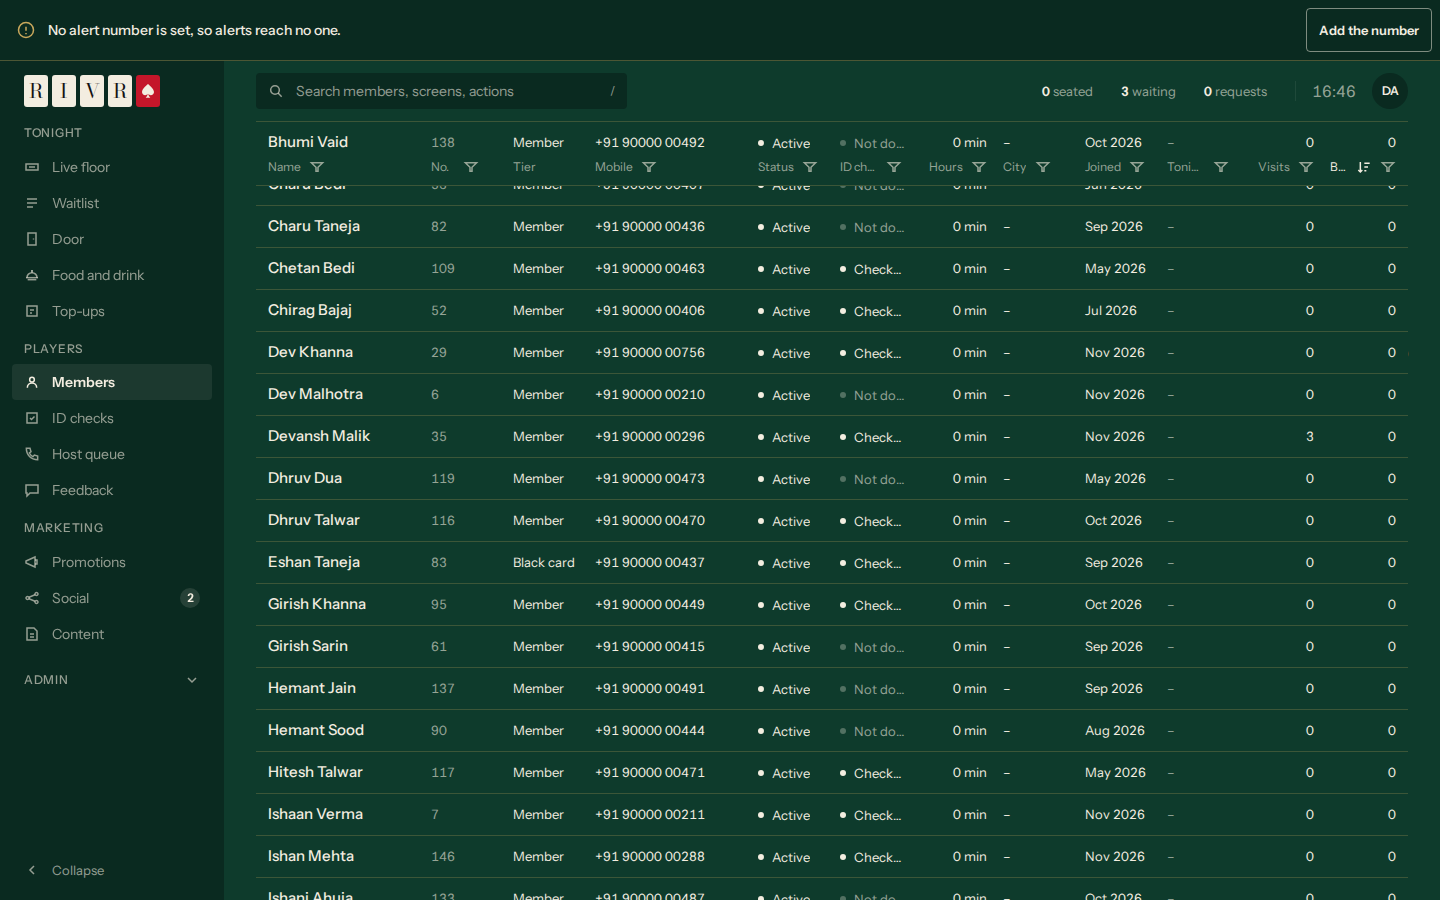
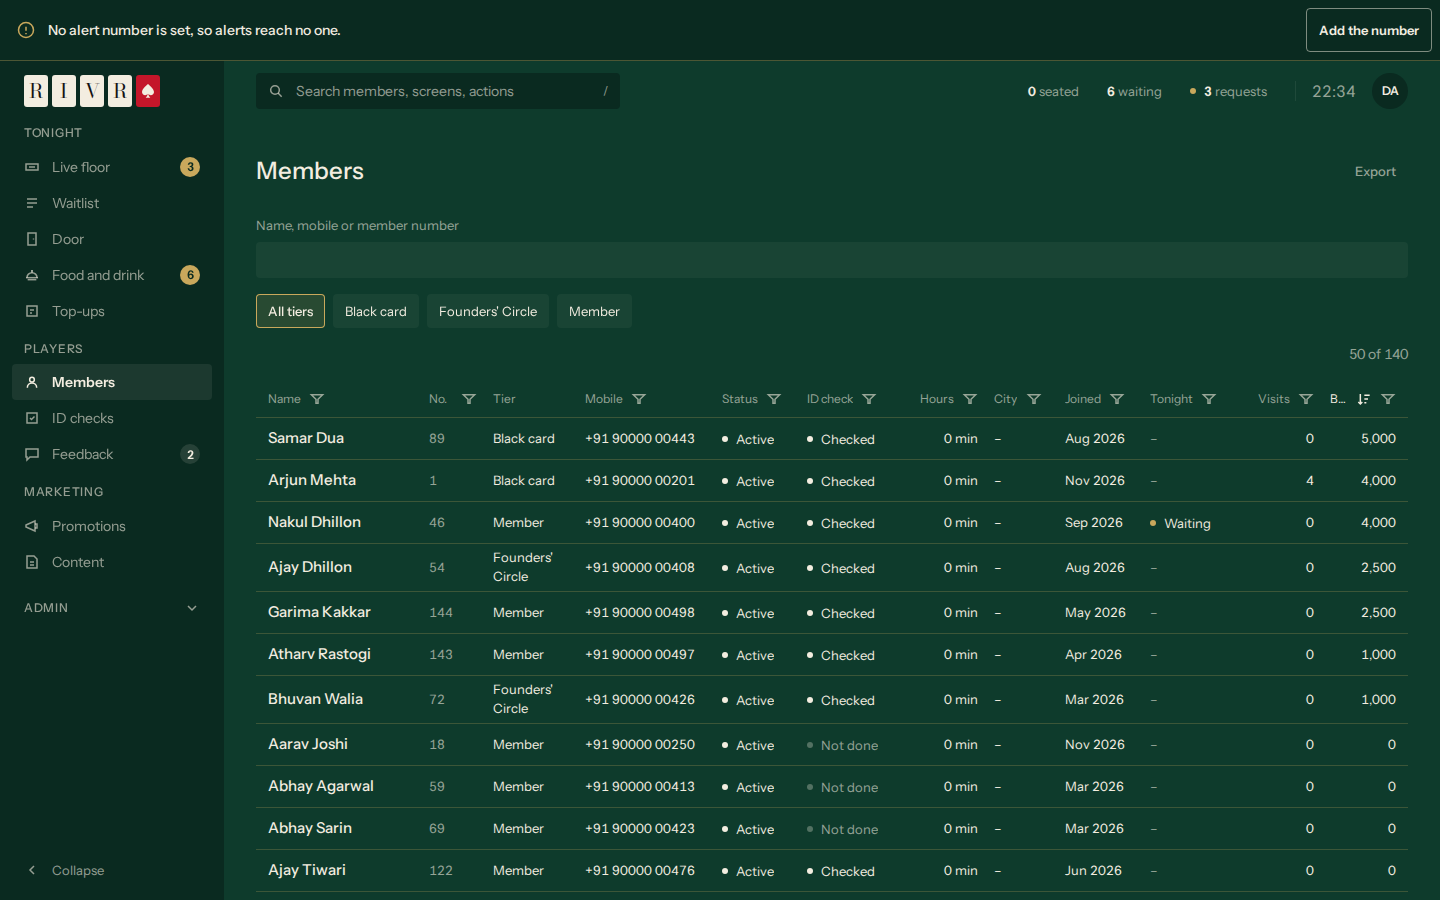
fix(members): columns not cut, a held header over no row, text capped
The UI and security reviews of the pull request.

Twelve columns cut the headings "ID check" and "Tonight" at 1440 px,
and two shares for those two cut five others. A data table column may
now say its own share of the width (share); once one does, every
column's width is set by its share. Each of Members' columns says one
(decision 0611). The data table's held header stood below the
console main's top space, so rows of a scrolled fifty-row page showed
over it (Members, Activity): in the console it is taken up to main's
top edge, on its own colour; a story scrolls a page to show it.

What is typed into a search or a column's filter is read to 200
characters where the SQL is built (members_list_sql, list_filter_sql,
list_where_sql), and a chosen value likewise; pgTAP 436 tries 5,000.

Refs #972, #973

diff --git a/apps/console/src/features/members/components/memberColumns.tsx b/apps/console/src/features/members/components/memberColumns.tsx
@@ -47,7 +47,7 @@ export function AccountStatusDot({ status, isShort = false }: { status: MemberAc
 function accountColumn(statuses: ReadonlyMap<string, MemberAccountStatus> | undefined, choices: MemberChoices | undefined): DataTableColumn<MemberListRow> {
   const kindOf = (row: MemberListRow) => (statuses === undefined ? t('console.members.notHere') : accountKind(statuses.get(row.memberId)));
   return {
-    key: 'status', header: t('console.members.accountStatus.header'), filter: 'choice', choices: choicesIn('status', choices), filterValue: kindOf, sortValue: kindOf,
+    key: 'status', share: 1, header: t('console.members.accountStatus.header'), filter: 'choice', choices: choicesIn('status', choices), filterValue: kindOf, sortValue: kindOf,
     exportValue: (row) => (statuses === undefined ? '' : accountWords(statuses.get(row.memberId))),
     cell: (row) => (statuses === undefined ? <Text variant="secondary" tone="muted">{t('console.members.notHere')}</Text> : <AccountStatusDot status={statuses.get(row.memberId)} isShort />),
   };
@@ -72,7 +72,7 @@ const KYC_ORDER: readonly MemberKycStatus[] = ['at_desk', 'in_review', 'not_done
  * shares, so a number stays on one line beside the other columns at 1440 px.
  */
 const mobileColumn: DataTableColumn<MemberListRow> = {
-  key: 'mobile', header: t('console.members.mobile'), priority: 'secondary', isWide: true, filter: 'text',
+  key: 'mobile', share: 1.75, header: t('console.members.mobile'), priority: 'secondary', isWide: true, filter: 'text',
   cell: (row) => (row.phone === null ? '' : formatMobile(row.phone)), exportValue: (row) => row.phone ?? '',
 };
 
@@ -80,19 +80,19 @@ const mobileColumn: DataTableColumn<MemberListRow> = {
 function moreColumns(choices: MemberChoices | undefined): readonly DataTableColumn<MemberListRow>[] {
   return [
     {
-      key: 'kyc', header: t('console.members.kyc'), sortValue: (row) => KYC_ORDER.indexOf(row.kycStatus), filter: 'choice', choices: choicesIn('kyc', choices),
+      key: 'kyc', share: 1.3, header: t('console.members.kyc'), sortValue: (row) => KYC_ORDER.indexOf(row.kycStatus), filter: 'choice', choices: choicesIn('kyc', choices),
       filterValue: (row) => t(`console.members.kycStatuses.${row.kycStatus}`),
       cell: (row) => <DotStatus tone={KYC_TONE[row.kycStatus]} label={t(`console.members.kycStatuses.${row.kycStatus}`)} />,
       exportValue: (row) => t(`console.members.kycStatuses.${row.kycStatus}`),
     },
     {
-      key: 'played', header: t('console.members.played'), align: 'end', sortValue: (row) => row.minutesPlayed * 60, exportValue: (row) => row.minutesPlayed,
+      key: 'played', share: 0.95, header: t('console.members.played'), align: 'end', sortValue: (row) => row.minutesPlayed * 60, exportValue: (row) => row.minutesPlayed,
       filter: 'duration',
       cell: (row) => formatDuration(row.minutesPlayed * 60),
     },
-    { key: 'city', header: t('console.members.city'), priority: 'optional', cell: (row) => row.city ?? t('console.members.notHere'), exportValue: (row) => row.city ?? '', sortValue: (row) => row.city ?? '', filter: 'choice', choices: choicesIn('city', choices) },
+    { key: 'city', share: 0.8, header: t('console.members.city'), priority: 'optional', cell: (row) => row.city ?? t('console.members.notHere'), exportValue: (row) => row.city ?? '', sortValue: (row) => row.city ?? '', filter: 'choice', choices: choicesIn('city', choices) },
     {
-      key: 'since', header: t('console.members.memberSince'), priority: 'optional', sortValue: (row) => row.memberSince, filter: 'date',
+      key: 'since', share: 1, header: t('console.members.memberSince'), priority: 'optional', sortValue: (row) => row.memberSince, filter: 'date',
       cell: (row) => formatMonthYear(new Date(row.memberSince)),
     },
   ];
@@ -123,17 +123,17 @@ export function memberColumns(tonight: ReadonlyMap<string, Tonight>, view: Membe
 function coreColumns(tonight: ReadonlyMap<string, Tonight>, choices: MemberChoices | undefined): readonly DataTableColumn<MemberListRow>[] {
   return [
     // Twice a share, so a name stays on one line beside the record (the screenshot index: "Kabir / Sethi").
-    { key: 'name', header: t('console.members.name'), cell: (row) => row.fullName, sortValue: (row) => row.fullName, isWide: true, filter: 'text' },
-    { key: 'number', header: t('console.members.number'), cell: (row) => <Text variant="secondary" tone="muted">{String(row.memberNumber)}</Text>, sortValue: (row) => row.memberNumber, filter: 'number' },
-    { key: 'tier', header: t('console.members.tier'), cell: (row) => row.tierName, sortValue: (row) => row.tierName, filter: false },
+    { key: 'name', share: 2.1, header: t('console.members.name'), cell: (row) => row.fullName, sortValue: (row) => row.fullName, isWide: true, filter: 'text' },
+    { key: 'number', share: 0.7, header: t('console.members.number'), cell: (row) => <Text variant="secondary" tone="muted">{String(row.memberNumber)}</Text>, sortValue: (row) => row.memberNumber, filter: 'number' },
+    { key: 'tier', share: 1.1, header: t('console.members.tier'), cell: (row) => row.tierName, sortValue: (row) => row.tierName, filter: false },
     {
-      key: 'tonight', header: t('console.members.tonight'), cell: (row) => <TonightStatus tonight={tonight.get(row.memberId)} />,
+      key: 'tonight', share: 1.2, header: t('console.members.tonight'), cell: (row) => <TonightStatus tonight={tonight.get(row.memberId)} />,
       sortValue: (row) => tonightOrder(tonight.get(row.memberId)), exportValue: (row) => tonightWords(tonight.get(row.memberId)), filter: 'choice', choices: choicesIn('tonight', choices),
       filterValue: (row) => tonightKind(tonight.get(row.memberId)),
     },
-    { key: 'visits', header: t('console.members.visits'), cell: (row) => formatNumber(row.visits), sortValue: (row) => row.visits, align: 'end', filter: 'number' },
+    { key: 'visits', share: 0.95, header: t('console.members.visits'), cell: (row) => formatNumber(row.visits), sortValue: (row) => row.visits, align: 'end', filter: 'number' },
     {
-      key: 'bonus', header: t('console.members.bonus.column'), cell: (row) => formatChips(row.bonus), sortValue: (row) => Number(formatRupeesForFile(row.bonus)),
+      key: 'bonus', share: 0.95, header: t('console.members.bonus.column'), cell: (row) => formatChips(row.bonus), sortValue: (row) => Number(formatRupeesForFile(row.bonus)),
       exportValue: (row) => Number(formatRupeesForFile(row.bonus)), align: 'end', filter: 'number',
     },
   ];

diff --git a/packages/ui/src/DataTable/header.tsx b/packages/ui/src/DataTable/header.tsx
@@ -1,6 +1,8 @@
 import type { ReactNode, Ref } from 'react';
 import { Icon } from '../Icon/Icon.tsx';
 import { cx } from '../internal/classes.ts';
+import { useIsInConsole } from '../internal/consoleFrame.ts';
+import { STICKY_BAR_TOP } from '../internal/consoleMain.ts';
 import { Text } from '../Text/Text.tsx';
 import type { DataTableColumn, DataTableSort } from './columns.ts';
 import { GUTTER, headerRowClasses, heldTitle, LOOK, priorityOf, tickPlace, type Layout } from './rows.tsx';
@@ -50,18 +52,21 @@ export interface HeaderRowProps<Row> {
 }
 
 /**
- * The header row: held at the top of the page's scrolling area, on the page's colour, as the rows pass under it. Shown
+ * The header row: held at the top of the page's scrolling area, on the page's colour, as the rows pass under it. In the
+ * console that area keeps a space above a screen, and a held box stops at it: the header is taken up by as much, to the
+ * area's top edge, or the rows would show in the gap over it (the UI review of redesign RD-29). Shown
  * from 768 px, and below in the scroll layout, where it follows the body sideways; the cards name their own columns.
  */
 export function HeaderRow<Row>({ columns, sort, onSort, layout, isVirtual, ref, menuFor }: HeaderRowProps<Row>) {
   const look = LOOK[layout.narrow];
+  const held = cx('sticky z-nav bg-table-header', useIsInConsole() ? STICKY_BAR_TOP : 'top-0', look.headerGroup);
   return (
-    <div role="rowgroup" ref={ref} className={cx('sticky top-0 z-nav bg-table-header', look.headerGroup)} style={isVirtual ? { ...GUTTER, overflowY: 'hidden' } : undefined}>
+    <div role="rowgroup" ref={ref} className={held} style={isVirtual ? { ...GUTTER, overflowY: 'hidden' } : undefined}>
       <div role="row" aria-rowindex={1} className={headerRowClasses(layout)} style={layout.grid}>
         {layout.ticks === null ? null : <TickHeader ticks={layout.ticks} place={tickPlace(layout, true)} />}
         {columns.map((column, at) => (
           <HeaderCell key={column.key} column={column} sort={sort} onSort={onSort} menu={menuFor(column)}
-            place={cx(look.headerCell, column.isWide && look.span, priorityOf(column, at) === 'primary' && heldTitle(layout))} />
+            place={cx(look.headerCell, column.isWide && layout.isShared !== true && look.span, priorityOf(column, at) === 'primary' && heldTitle(layout))} />
         ))}
       </div>
     </div>

diff --git a/packages/ui/src/DataTable/rows.tsx b/packages/ui/src/DataTable/rows.tsx
@@ -32,11 +32,17 @@ export interface Layout {
   readonly ticks: Ticks | null;
   /** Where rows are lines and have ticks: the ticks' column as wide as a tick, then a share per column, two for a wide one. */
   readonly grid: CSSProperties | undefined;
+  /** A column says its own share, so every column's width is set by its share and a wide one spans nothing. */
+  readonly isShared?: boolean;
 }
 
 export function layoutOf<Row>(columns: readonly DataTableColumn<Row>[], narrow: Layout['narrow'], density: Layout['density'], ticks: Ticks | null): Layout {
   const shares = columns.reduce((sum, column) => sum + (column.isWide ? 2 : 1), 0);
   const ticksColumn = ticks === null ? '' : 'auto ';
+  if (narrow !== 'sideways' && columns.some((column) => column.share !== undefined)) {
+    const tracks = columns.map((column) => `minmax(0, ${String(column.share ?? (column.isWide ? 2 : 1))}fr)`).join(' ');
+    return { narrow, density, ticks, isShared: true, grid: { gridTemplateColumns: `${ticksColumn}${tracks}` } };
+  }
   // Sideways, each share is at least a column's width, so the line grows past the page and scrolls rather than squeeze.
   if (narrow === 'sideways') return { narrow, density, ticks, grid: { gridTemplateColumns: `${ticksColumn}repeat(${shares}, minmax(${tokens.size.column}px, 1fr))` } };
   return { narrow, density, ticks, grid: ticks === null ? undefined : { gridTemplateColumns: `${ticksColumn}repeat(${shares}, minmax(0, 1fr))` } };
@@ -142,7 +148,7 @@ function cellClasses<Row>(column: DataTableColumn<Row>, priority: Priority, layo
   // a total row one weight throughout.
   const weight = isTotal ? 'font-semibold' : isTitle && 'font-medium';
   return cx('min-w-0 font-text text-content wrap-anywhere', isTitle ? 'text-15' : 'text-13', weight, isOneLine && 'truncate',
-    look.cell[priority], isTitle && heldTitle(layout), column.isWide && look.span, column.align === 'end' ? look.end : 'text-start');
+    look.cell[priority], isTitle && heldTitle(layout), column.isWide && layout.isShared !== true && look.span, column.align === 'end' ? look.end : 'text-start');
 }
 
 /** The title cell's content: when rows open, the button a keyboard and a screen reader open the row with. */

diff --git a/packages/ui/src/DataTable/DataTable.share.test.tsx b/packages/ui/src/DataTable/DataTable.share.test.tsx
@@ -1,0 +1,27 @@
+import { screen } from '@testing-library/react';
+import { describe, expect, it } from 'vitest';
+import { renderIn } from '../test/render.tsx';
+import { DataTable, type DataTableColumn } from './DataTable.tsx';
+
+interface Row { readonly id: string; readonly name: string; readonly number: number }
+const ROWS: readonly Row[] = [{ id: 'a', name: 'Asha Verma', number: 7 }];
+const columns = (share: number | undefined): readonly DataTableColumn<Row>[] => [
+  { key: 'name', header: 'Name', isWide: true, cell: (row) => row.name },
+  { key: 'number', header: 'No.', cell: (row) => String(row.number), ...(share === undefined ? {} : { share }) },
+];
+
+describe('a column’s own share of the width', () => {
+  it('sets every column by its share once one says its own: a wide one two, and it spans nothing', () => {
+    renderIn(<DataTable label="Members" columns={columns(0.7)} rows={ROWS} rowKey={(row) => row.id} emptyText="None." />);
+    const [header, body] = screen.getAllByRole('row');
+    expect(header?.style.gridTemplateColumns).toBe('minmax(0, 2fr) minmax(0, 0.7fr)');
+    expect(body?.style.gridTemplateColumns).toBe('minmax(0, 2fr) minmax(0, 0.7fr)');
+    expect(screen.getByRole('columnheader', { name: /^Name/ }).className).not.toContain('col-span-2');
+  });
+
+  it('leaves a table with no such share to equal shares, a wide column spanning two', () => {
+    renderIn(<DataTable label="Members" columns={columns(undefined)} rows={ROWS} rowKey={(row) => row.id} emptyText="None." />);
+    expect(screen.getAllByRole('row')[0]?.style.gridTemplateColumns).toBe('');
+    expect(screen.getByRole('columnheader', { name: /^Name/ }).className).toContain('col-span-2');
+  });
+});

diff --git a/packages/ui/src/DataTable/DataTable.server.stories.tsx b/packages/ui/src/DataTable/DataTable.server.stories.tsx
@@ -1,6 +1,8 @@
 import type { Meta, StoryObj } from '@storybook/react-vite';
 import { expect, screen, userEvent } from 'storybook/test';
 import { ChoiceChips } from '../ChoiceChips/ChoiceChips.tsx';
+import { ConsoleFrameContext } from '../internal/consoleFrame.ts';
+import { CONSOLE_MAIN_TOP } from '../internal/consoleMain.ts';
 import { DataTable, type DataTableColumn } from './DataTable.tsx';
 import { DataTableExportProvider } from './DataTableExport.tsx';
 import { DataTableViewProvider } from './DataTableView.tsx';
@@ -122,3 +124,22 @@ export const ManyPagesOnAPhone: Story = { tags: ['viewport-phone'] };
 
 /** On a tablet held upright (768 px). */
 export const ManyPagesOnAPortraitTablet: Story = { tags: ['viewport-portrait'] };
+
+/**
+ * A page of fifty scrolled in the console's main, with its space above a screen: the header stands against main's top
+ * edge on its own colour, and no row shows over it.
+ */
+export const ScrolledInTheConsole: Story = {
+  render: () => (
+    <ConsoleFrameContext value>
+      <div data-scroller="" className={`h-dvh overflow-y-auto px-8 ${CONSOLE_MAIN_TOP}`}>
+        <ServerTable rows={members(50)} total={4812} />
+      </div>
+    </ConsoleFrameContext>
+  ),
+  play: ({ canvasElement }) => {
+    canvasElement.querySelector('[data-scroller]')?.scrollTo(0, 600);
+  },
+  parameters: { layout: 'fullscreen' },
+  tags: DESK,
+};

diff --git a/packages/ui/src/DataTable/columns.ts b/packages/ui/src/DataTable/columns.ts
@@ -21,6 +21,12 @@ export interface DataTableColumn<Row> {
   /** Twice a column's share of the width from 768 px, for words that would wrap in one share: a stake's name. */
   readonly isWide?: boolean;
   /**
+   * The column's share of the width from 768 px, where one share (or a wide column's two) does not suit: 0.7 for a number,
+   * 1.3 for a status with its dot. A table with such a share on any column sets every column's width by its share, so a
+   * table of many columns can fit each heading and cell (the UI review of redesign RD-29).
+   */
+  readonly share?: number;
+  /**
    * What an export gives for the column (#102). Without one: the cell's words, a Money cell's rupees, or the
    * sort value. A column with no heading, such as a row's buttons, is left out of exports.
    */

diff --git a/docs/decisions/0611-members-on-the-server.md b/docs/decisions/0611-members-on-the-server.md
@@ -11,3 +11,4 @@ Date: 15 Nov 2026. Issue 972 (redesign RD-29; slice 12, "Lists at scale").
 - The search is the list's own, unchanged: a name by any part, a member number exactly, four or more digits of a mobile (anywhere in it for staff who read mobiles, its last four for everyone else).
 - Indexes: the list by name, number and joining day; trigram indexes (`pg_trgm`) for a name or mobile by any part; a mobile's last four digits.
 - Names now sort as the database collates them, not as the browser did. `members_of_tier` stays in the database, where its tests are the page's reference; the console no longer reads it.
+- Twelve columns at 1440 px cut the headings "ID check" and "Tonight", and two shares for those two cut others. So a data table column may say its own share of the width (`share`); Members and the Door set one on every column, and no heading or cell is cut.
